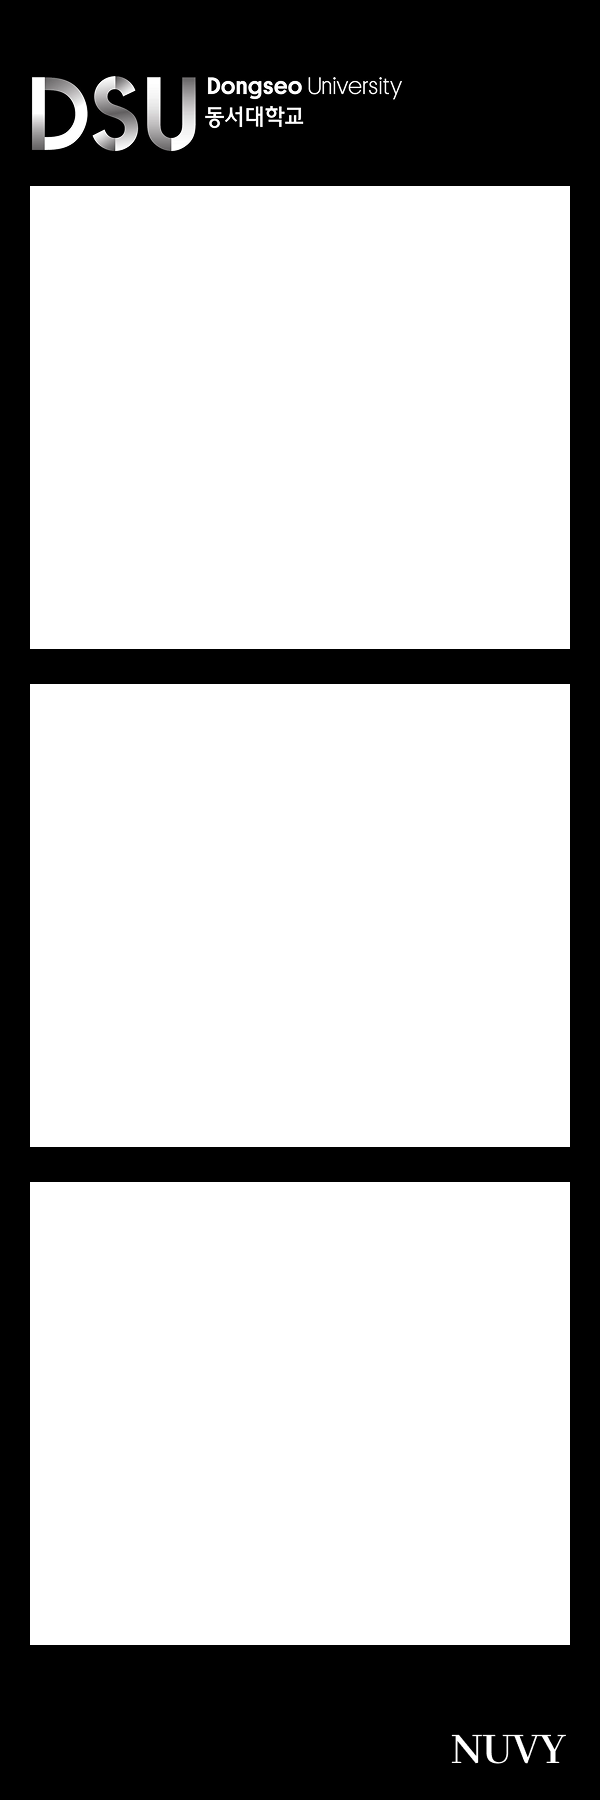
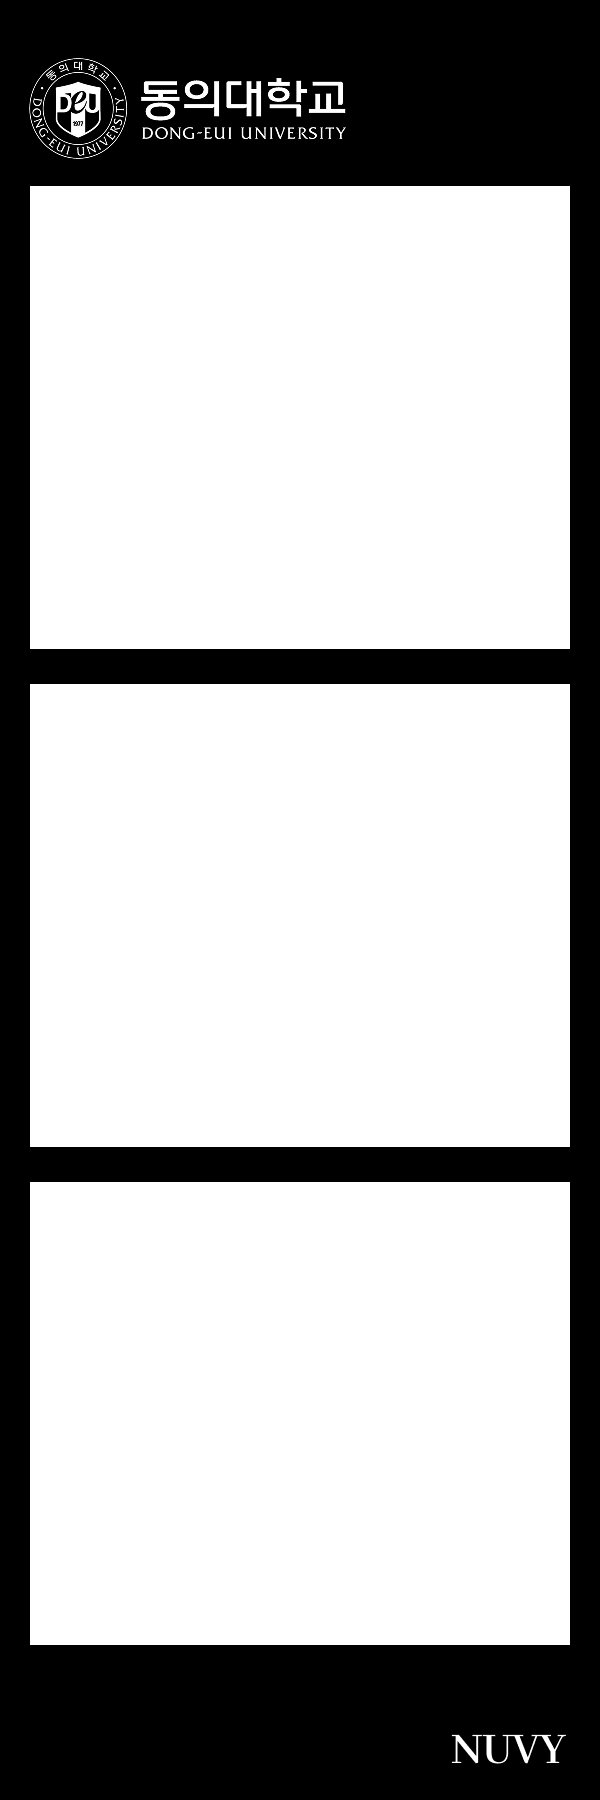
수정내용 간단히

Changed region(s): [[0.03, 0.0311, 0.66, 0.0933]]

diff --git a/app/page.tsx b/app/page.tsx
@@ -4,7 +4,7 @@ export default function Home() {
       {/* Hero Section */}
       <section className="px-6 py-16 text-center bg-black text-white">
         <h1 className="text-3xl font-bold mb-6 leading-tight">
-          제 31회 Dongseo Univ.<br />Graduation
+          Dongeui Univ.<br />Graduation
         </h1>
         <p className="text-base leading-relaxed opacity-90">
           가장 빛나는 오늘의 당신을 위해<br />
@@ -21,16 +21,12 @@ export default function Home() {
         <h2 className="text-2xl font-bold mb-6 text-center">운영 안내</h2>
         <div className="space-y-3 max-w-md mx-auto">
           <div className="flex items-start">
-            <span className="font-semibold min-w-[60px]">일자</span>
-            <span className="text-gray-700">2026. 2. 13. (금)</span>
-          </div>
-          <div className="flex items-start">
             <span className="font-semibold min-w-[60px]">시간</span>
             <span className="text-gray-700">10:00 – 15:00</span>
           </div>
           <div className="flex items-start">
             <span className="font-semibold min-w-[60px]">장소</span>
-            <span className="text-gray-700">뉴밀레니엄관</span>
+            <span className="text-gray-700">효민갤러리</span>
           </div>
         </div>
       </section>
@@ -97,44 +93,58 @@ export default function Home() {
       <div className="h-2 bg-black mx-6"></div>
 
       {/* 프레임 선택 - 2x2 그리드 */}
-      <section className="px-6 py-12 bg-white">
-        <h2 className="text-2xl font-bold mb-3 text-center">프레임 선택</h2>
-        <p className="text-center text-gray-600 mb-8 text-sm">
-          촬영 전, 아래 4가지 프레임 중 하나를 미리 골라주세요
-        </p>
-        
-        <div className="grid grid-cols-2 gap-4 max-w-md mx-auto">
-          <div className="bg-gray-100 rounded-lg overflow-hidden aspect-[2/3] flex items-center justify-center">
-            <img 
-              src="/a.png" 
-              alt="프레임 1" 
-              className="w-full h-full object-contain"
-            />
-          </div>
-          <div className="bg-gray-100 rounded-lg overflow-hidden aspect-[2/3] flex items-center justify-center">
-            <img 
-              src="/a2.png" 
-              alt="프레임 2" 
-              className="w-full h-full object-contain"
-            />
-          </div>
-          <div className="bg-gray-100 rounded-lg overflow-hidden aspect-[2/3] flex items-center justify-center">
-            <img 
-              src="/a3.png" 
-              alt="프레임 3" 
-              className="w-full h-full object-contain"
-            />
-          </div>
-          <div className="bg-gray-100 rounded-lg overflow-hidden aspect-[2/3] flex items-center justify-center">
-            <img 
-              src="/a4.png" 
-              alt="프레임 4" 
-              className="w-full h-full object-contain"
-            />
-          </div>
-        </div>
-      </section>
+{/* 프레임 선택 - 첫 줄 3개, 둘째 줄 2개 */}
+<section className="px-6 py-12 bg-white">
+  <h2 className="text-2xl font-bold mb-3 text-center">프레임 선택</h2>
+  <p className="text-center text-gray-600 mb-8 text-sm">
+    촬영 전, 아래 5가지 프레임 중 하나를 미리 골라주세요
+  </p>
+  
+  <div className="max-w-md mx-auto space-y-4">
+    {/* 첫 줄: 3개 */}
+    <div className="grid grid-cols-3 gap-3">
+      <div className="bg-gray-100 rounded-lg overflow-hidden aspect-[2/3] flex items-center justify-center">
+        <img 
+          src="/a.png" 
+          alt="프레임 1" 
+          className="w-full h-full object-contain"
+        />
+      </div>
+      <div className="bg-gray-100 rounded-lg overflow-hidden aspect-[2/3] flex items-center justify-center">
+        <img 
+          src="/a2.png" 
+          alt="프레임 2" 
+          className="w-full h-full object-contain"
+        />
+      </div>
+      <div className="bg-gray-100 rounded-lg overflow-hidden aspect-[2/3] flex items-center justify-center">
+        <img 
+          src="/a3.png" 
+          alt="프레임 3" 
+          className="w-full h-full object-contain"
+        />
+      </div>
+    </div>
 
+    {/* 둘째 줄: 2개 (중앙 정렬) */}
+    <div className="grid grid-cols-3 gap-3">
+      <div className="bg-gray-100 rounded-lg overflow-hidden aspect-[2/3] flex items-center justify-center col-start-1">
+        <img 
+          src="/a4.png" 
+          alt="프레임 4" 
+          className="w-full h-full object-contain"
+        />
+      </div>
+      <div className="bg-gray-100 rounded-lg overflow-hidden aspect-[2/3] flex items-center justify-center">
+        <img 
+          src="/a5.png" 
+          alt="프레임 5" 
+          className="w-full h-full object-contain"
+        />
+      </div>
+    </div>
+  </div>
+</section>
       {/* 구분선 */}
       <div className="h-2 bg-black mx-6"></div>
 
@@ -255,7 +265,7 @@ export default function Home() {
       {/* Footer */}
       <section className="px-6 py-16 bg-black text-white text-center">
         <p className="text-base leading-relaxed mb-6">
-          동서대학교에서의 모든 시간이<br />
+          동의대학교에서의 모든 시간이<br />
           당신의 앞날에 밑거름이 되길 응원합니다.
         </p>
         <p className="text-base leading-relaxed mb-8">

diff --git a/app/layout.tsx b/app/layout.tsx
@@ -2,7 +2,7 @@ import type { Metadata } from 'next'
 import './globals.css'
 
 export const metadata: Metadata = {
-  title: '제 31회 동서대학교 학위수여식',
+  title: '동서대학교 2025학년도 전기학위수여식',
   description: '가장 빛나는 오늘의 당신을 위해 특별한 포토부스를 준비했습니다.',
   viewport: 'width=device-width, initial-scale=1, maximum-scale=1',
 }
